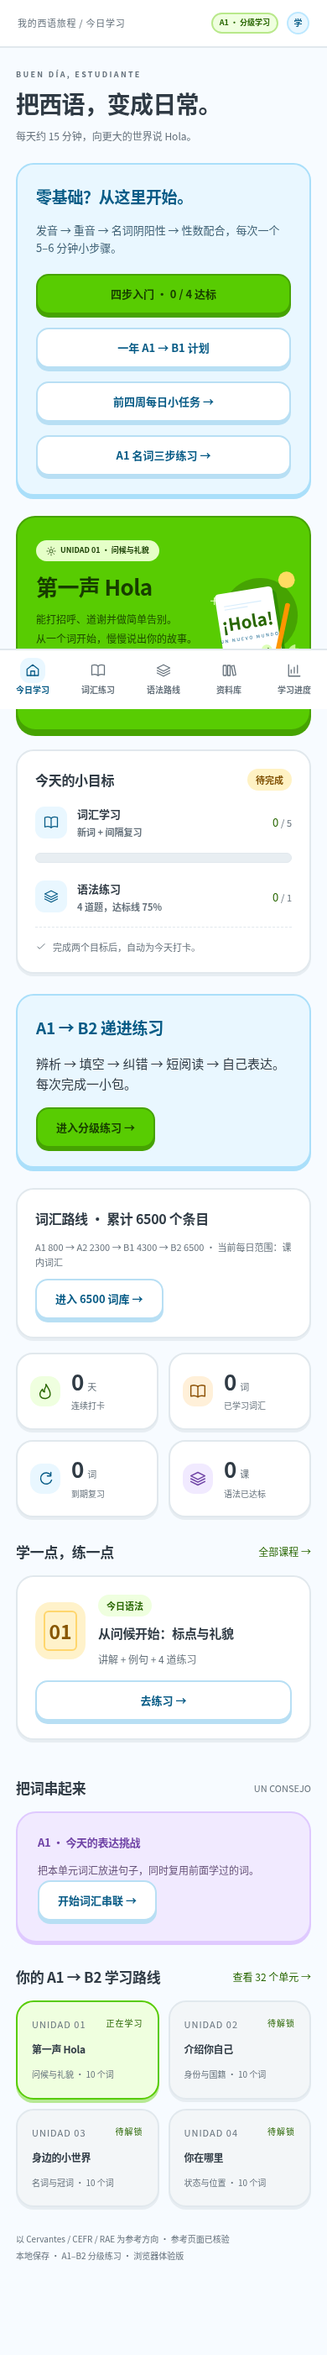
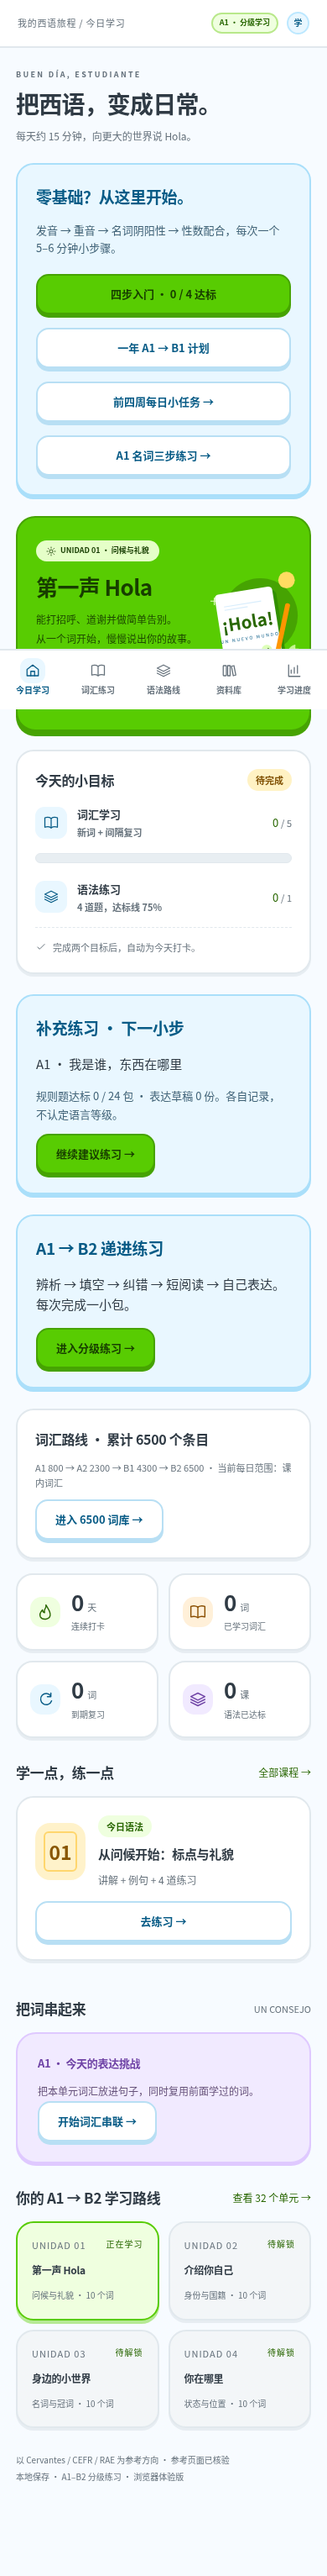
Show practice progress by level and suggest the next learning step

diff --git a/web/app.js b/web/app.js
@@ -77,7 +77,16 @@
     const date = new Date().toLocaleDateString('zh-CN', { month: 'long', day: 'numeric', weekday: 'long' });
     return heading('BUEN DÍA, ESTUDIANTE', '把西语，变成日常。', '每天约 15 分钟，向更大的世界说 Hola。', `<div class="date-chip">${icon('calendar')}${esc(date)}</div>`) +
       `<section class="card beginner-start"><h2>${foundationPassed<4?'零基础？从这里开始。':'把基础练熟，再走远一点。'}</h2><p class="tiny">发音 → 重音 → 名词阴阳性 → 性数配合，每次一个 5–6 分钟小步骤。</p><div class="actions">${btn(`四步入门 · ${foundationPassed} / 4 达标`,'foundations')}${btn('一年 A1 → B1 计划','year','','secondary')}${btn('前四周每日小任务 →','month','','secondary')}${btn('A1 名词三步练习 →','nouns','','secondary')}</div></section><div class="dashboard-grid"><section class="hero"><div class="hero-grid"><div><div class="hero-tag">${icon('sun').replace('viewBox=', 'width="12" height="12" viewBox=')} UNIDAD ${s.unit.number} · ${esc(s.unit.topic)}</div><h2>${esc(s.unit.title)}</h2><p>${esc(s.unit.goal)}<br>从一个词开始，慢慢说出你的故事。</p>${btn(`${s.checkedIn ? '再巩固一轮' : '开始今日学习'} ${icon('arrow')}`, 'study', '', 'lime')}</div>${art()}</div></section><section class="card task-list"><div class="task-header"><h2>今天的小目标</h2>${pill(s.checkedIn ? '已打卡 ✓' : '待完成', !s.checkedIn)}</div><div class="task"><div class="task-icon">${icon('book')}</div><div class="task-label">词汇学习<div class="task-meta">新词 + 间隔复习</div></div><div class="task-count">${s.day.words.length} <span class="tiny">/ ${s.day.goal}</span></div></div>${meter(s.wordPercent)}<div class="task"><div class="task-icon">${icon('layers')}</div><div class="task-label">语法练习<div class="task-meta">4 道题，达标线 75%</div></div><div class="task-count">${s.day.grammar.length ? '✓' : '0'} <span class="tiny">/ 1</span></div></div><div class="checkin-note">${icon('check')}<span>${s.checkedIn ? '今日目标完成啦，学习记录已保存。' : '完成两个目标后，自动为今天打卡。'}</span></div></section></div>` +
-      `<div class="card beginner-start"><h2>A1 → B2 递进练习</h2><p>辨析 → 填空 → 纠错 → 短阅读 → 自己表达。每次完成一小包。</p>${btn('进入分级练习 →','drills')}</div><div class="card"><h2>词汇路线 · 累计 6500 个条目</h2><p class="tiny">A1 800 → A2 2300 → B1 4300 → B2 6500 · 当前每日范围：${state.track==='bank'?'扩展词库':'课内词汇'}</p>${btn('进入 6500 词库 →','bank','','secondary')}</div><section class="stats" aria-label="学习统计">${stat(s.streak,'连续打卡','flame','天')}${stat(s.learned,'已学习词汇','book','词')}${stat(s.due,'到期复习','refresh','词')}${stat(s.grammarPassed,'语法已达标','layers','课')}</section><div class="two-column"><section><div class="section-head"><h2>学一点，练一点</h2><a class="text-link" href="#grammar">全部课程 →</a></div><div class="card lesson-teaser"><div class="lesson-cover">${s.unit.number}</div><div>${pill('今日语法')}<h3>${esc(lesson.title)}</h3><p>讲解 + 例句 + 4 道练习</p></div>${btn('去练习 →','lesson',`data-id="${lesson.id}"`,'secondary')}</div></section><section><div class="section-head"><h2>把词串起来</h2><span class="tiny">UN CONSEJO</span></div><div class="tip"><h3>${esc(s.unit.levelCode)} · 今天的表达挑战</h3><p>把本单元词汇放进句子，同时复用前面学过的词。</p>${btn('开始词汇串联 →','expression',`data-id="${C.tasks.find(t=>t.unitId===s.unit.id).id}"`,'secondary')}</div></section></div><div class="section-head"><h2>你的 A1 → B2 学习路线</h2><a class="text-link" href="#grammar">查看 32 个单元 →</a></div><div class="roadmap">${C.units.filter(u=>u.levelCode===s.unit.levelCode).slice(0,4).map(u => { const unlocked = L.isUnlocked(state,u.id); const p = L.unitProgress(state,u.id); const current = s.unit.id === u.id; return `<div class="card unit-mini ${current ? 'current' : ''} ${unlocked ? '' : 'locked'}"><div class="unit-number">UNIDAD ${u.number}<span class="unit-state">${p.complete ? '✓ 完成' : current ? '正在学习' : unlocked ? '可学习' : '待解锁'}</span></div><h3>${esc(u.title)}</h3><span class="tiny">${esc(u.topic)} · 10 个词</span><button aria-label="学习${esc(u.title)}" data-action="lesson" data-id="${C.lessons.find(l=>l.unitId===u.id).id}"></button></div>`; }).join('')}</div>`;
+      `${practiceAdvice()}<div class="card beginner-start"><h2>A1 → B2 递进练习</h2><p>辨析 → 填空 → 纠错 → 短阅读 → 自己表达。每次完成一小包。</p>${btn('进入分级练习 →','drills')}</div><div class="card"><h2>词汇路线 · 累计 6500 个条目</h2><p class="tiny">A1 800 → A2 2300 → B1 4300 → B2 6500 · 当前每日范围：${state.track==='bank'?'扩展词库':'课内词汇'}</p>${btn('进入 6500 词库 →','bank','','secondary')}</div><section class="stats" aria-label="学习统计">${stat(s.streak,'连续打卡','flame','天')}${stat(s.learned,'已学习词汇','book','词')}${stat(s.due,'到期复习','refresh','词')}${stat(s.grammarPassed,'语法已达标','layers','课')}</section><div class="two-column"><section><div class="section-head"><h2>学一点，练一点</h2><a class="text-link" href="#grammar">全部课程 →</a></div><div class="card lesson-teaser"><div class="lesson-cover">${s.unit.number}</div><div>${pill('今日语法')}<h3>${esc(lesson.title)}</h3><p>讲解 + 例句 + 4 道练习</p></div>${btn('去练习 →','lesson',`data-id="${lesson.id}"`,'secondary')}</div></section><section><div class="section-head"><h2>把词串起来</h2><span class="tiny">UN CONSEJO</span></div><div class="tip"><h3>${esc(s.unit.levelCode)} · 今天的表达挑战</h3><p>把本单元词汇放进句子，同时复用前面学过的词。</p>${btn('开始词汇串联 →','expression',`data-id="${C.tasks.find(t=>t.unitId===s.unit.id).id}"`,'secondary')}</div></section></div><div class="section-head"><h2>你的 A1 → B2 学习路线</h2><a class="text-link" href="#grammar">查看 32 个单元 →</a></div><div class="roadmap">${C.units.filter(u=>u.levelCode===s.unit.levelCode).slice(0,4).map(u => { const unlocked = L.isUnlocked(state,u.id); const p = L.unitProgress(state,u.id); const current = s.unit.id === u.id; return `<div class="card unit-mini ${current ? 'current' : ''} ${unlocked ? '' : 'locked'}"><div class="unit-number">UNIDAD ${u.number}<span class="unit-state">${p.complete ? '✓ 完成' : current ? '正在学习' : unlocked ? '可学习' : '待解锁'}</span></div><h3>${esc(u.title)}</h3><span class="tiny">${esc(u.topic)} · 10 个词</span><button aria-label="学习${esc(u.title)}" data-action="lesson" data-id="${C.lessons.find(l=>l.unitId===u.id).id}"></button></div>`; }).join('')}</div>`;
+  }
+  function practiceAdvice() {
+    const p=L.practiceSummary(state);
+    const title=p.wrong?`先订正 ${p.wrong} 个错项`:p.next?`${p.next.level} · ${p.next.title}`:'回顾已经练过的内容';
+    return `<section class="card beginner-start practice-advice"><h2>补充练习 · 下一小步</h2><p>${esc(title)}</p><p class="tiny">规则题达标 ${p.passed} / ${p.total} 包 · 表达草稿 ${p.drafts} 份。各自记录，不认定语言等级。</p>${btn(p.wrong?'去集中订正 →':p.next?'继续建议练习 →':'回顾练习 →','practice-continue')}</section>`;
+  }
+  function practiceProgressPanel() {
+    const p=L.practiceSummary(state);
+    return `<section class="practice-progress"><div class="section-head"><h2>补充练习的进度</h2></div><div class="card"><p>规则题达标 ${p.passed} / ${p.total} 包 · 待订正 ${p.wrong} 项 · 已保存表达 ${p.drafts} 份</p><p class="tiny">表达自查已勾选完整 ${p.selfChecked} 份；前四周三个小任务已勾选 ${p.monthCompleted} / 28 天。手工自查与任务不算能力评分或打卡。</p><div class="actions">${btn('集中订正','drill-review','','secondary')}${btn('查看每日小任务','month','','secondary')}</div></div><div class="lesson-grid">${p.levels.map(l=>`<article class="card practice-level-card" data-level="${l.level}"><h3>${l.level}</h3><p>规则题达标 ${l.passed} / ${l.total} 包</p>${meter(percent(l.passed,l.total))}<p class="tiny">已练 ${l.practiced} 包 · 已开放 ${l.available} 包 · 待订正 ${l.wrong} 项</p><p class="tiny">已保存表达 ${l.drafts} 份 · 自查勾选完整 ${l.selfChecked} 份</p>${btn('查看本级练习','practice-level',`data-level="${l.level}"`,'small secondary')}</article>`).join('')}</div><p class="tiny">主课程、补充练习和手工任务分别统计；规则正确率不能证明完整听说读写能力。</p></section>`;
   }
   function firstMonthPage() {
     const s=L.firstMonthSummary(state,L.dateKey(),monthDay);monthDay=s.selectedDay;
@@ -203,7 +212,7 @@
   function progressPage() {
     const s=L.summary(state); const errors=L.mistakes(state); const wrong=L.wrongWords(state);
     const calendar=Array.from({length:14},(_,i)=> { const key=L.addDays(s.today,i-13); return `<div class="calendar-day ${L.isCheckedIn(state.days[key])?'done':''} ${key===s.today?'today':''}" aria-label="${key} ${L.isCheckedIn(state.days[key])?'已打卡':'未打卡'}">${key.slice(5)}</div>`; }).join('');
-    return heading('MI CAMINO','每一步，都算数。','真正的进步，是今天比昨天多懂一点。') + `${storageFailed?`<div class="notice">原记录暂未读取，旧数据不会被覆盖。可重读或导入兼容备份。${btn('重新读取记录','reload-records','','secondary')}</div>`:''}<div class="stats">${stat(s.streak,'连续打卡','flame','天')}${stat(s.checkins,'累计打卡','calendar','天')}${stat(s.learned,'已学习词汇','book',`/ ${C.lexicon.catalogue.length}`)}${stat(s.grammarPassed,'语法已达标','layers',`/ ${C.lessons.length}`)}</div><div class="progress-columns"><section><div class="card"><div class="card-head"><h2>最近 14 天</h2>${pill('学习日历')}</div><div class="calendar">${calendar}</div><p class="tiny">深绿色：当日完成词汇目标 + 至少一次达标语法练习。按设备本地日期记录。</p></div><div class="card"><div class="card-head"><h2>词汇积累</h2><span>${s.learned} / ${C.lexicon.catalogue.length}</span></div>${meter(percent(s.learned,C.lexicon.catalogue.length))}<p class="tiny">有复习记录即“已学习”，不等于长期掌握。到期词会优先安排复习。</p></div></section><section><div class="card"><h2>每天，给自己一点时间</h2><p class="tiny">设置每天词汇量，再加 1 次达标语法练习。</p><div class="goal-options">${[3,5,10].map(g=>btn(`${g} 个词`,'goal',`data-goal="${g}"`,state.goal===g?'':'secondary')).join('')}</div><p class="tiny">当天首次学习时固定目标。今天开始学习后，调整目标对下一天生效。</p></div><div class="card"><h2>留住你的学习记录</h2><p class="tiny">数据只存在当前浏览器中，不与微信自动同步。清理浏览器或换设备前，请导出备份。</p><div class="backup-actions">${btn('导出备份','export','','small secondary')}${btn('导入备份','import','','small ghost')}</div></div></section></div><div class="section-head"><h2>词汇错词本</h2><span class="tiny">${wrong.length} 个待订正</span></div><div class="card">${wrong.length?wrong.map(w=>`<p><strong lang="es">${esc(w.spanish)}</strong> · ${esc(w.meaning)}<br><span class="tiny">你的答案：${esc(w.answer)}</span></p>`).join('')+btn('集中重练错词 →','word-quiz','data-wrong="1"','secondary'):'<p class="tiny">词汇测验中答错的词会保存在这里。</p>'}</div><div class="section-head"><h2>错题回顾</h2><span class="tiny">${errors.length} 题待订正</span></div>${errors.length ? errors.map(q=>`<article class="card mistake"><h3>${esc(q.prompt)}</h3><p>你的答案：${esc(q.options[q.selected])}</p><p>正确答案：${esc(q.options[q.answer])}</p><p>${esc(q.explanation)}</p>${btn('重练本课 →','lesson',`data-id="${q.lessonId}"`,'small secondary')}</article>`).join('') : '<div class="card empty">暂无待订正错题。练习中的错题会自动出现在这里。</div>'}`;
+    return heading('MI CAMINO','每一步，都算数。','真正的进步，是今天比昨天多懂一点。') + `${storageFailed?`<div class="notice">原记录暂未读取，旧数据不会被覆盖。可重读或导入兼容备份。${btn('重新读取记录','reload-records','','secondary')}</div>`:''}<div class="stats">${stat(s.streak,'连续打卡','flame','天')}${stat(s.checkins,'累计打卡','calendar','天')}${stat(s.learned,'已学习词汇','book',`/ ${C.lexicon.catalogue.length}`)}${stat(s.grammarPassed,'语法已达标','layers',`/ ${C.lessons.length}`)}</div>${practiceProgressPanel()}<div class="progress-columns"><section><div class="card"><div class="card-head"><h2>最近 14 天</h2>${pill('学习日历')}</div><div class="calendar">${calendar}</div><p class="tiny">深绿色：当日完成词汇目标 + 至少一次达标语法练习。按设备本地日期记录。</p></div><div class="card"><div class="card-head"><h2>词汇积累</h2><span>${s.learned} / ${C.lexicon.catalogue.length}</span></div>${meter(percent(s.learned,C.lexicon.catalogue.length))}<p class="tiny">有复习记录即“已学习”，不等于长期掌握。到期词会优先安排复习。</p></div></section><section><div class="card"><h2>每天，给自己一点时间</h2><p class="tiny">设置每天词汇量，再加 1 次达标语法练习。</p><div class="goal-options">${[3,5,10].map(g=>btn(`${g} 个词`,'goal',`data-goal="${g}"`,state.goal===g?'':'secondary')).join('')}</div><p class="tiny">当天首次学习时固定目标。今天开始学习后，调整目标对下一天生效。</p></div><div class="card"><h2>留住你的学习记录</h2><p class="tiny">数据只存在当前浏览器中，不与微信自动同步。清理浏览器或换设备前，请导出备份。</p><div class="backup-actions">${btn('导出备份','export','','small secondary')}${btn('导入备份','import','','small ghost')}</div></div></section></div><div class="section-head"><h2>词汇错词本</h2><span class="tiny">${wrong.length} 个待订正</span></div><div class="card">${wrong.length?wrong.map(w=>`<p><strong lang="es">${esc(w.spanish)}</strong> · ${esc(w.meaning)}<br><span class="tiny">你的答案：${esc(w.answer)}</span></p>`).join('')+btn('集中重练错词 →','word-quiz','data-wrong="1"','secondary'):'<p class="tiny">词汇测验中答错的词会保存在这里。</p>'}</div><div class="section-head"><h2>错题回顾</h2><span class="tiny">${errors.length} 题待订正</span></div>${errors.length ? errors.map(q=>`<article class="card mistake"><h3>${esc(q.prompt)}</h3><p>你的答案：${esc(q.options[q.selected])}</p><p>正确答案：${esc(q.options[q.answer])}</p><p>${esc(q.explanation)}</p>${btn('重练本课 →','lesson',`data-id="${q.lessonId}"`,'small secondary')}</article>`).join('') : '<div class="card empty">暂无待订正错题。练习中的错题会自动出现在这里。</div>'}`;
   }
   function startSession(packId = '') { session={packId,items:packId?L.packQueue(state,packId):L.queue(state),index:0,revealed:false,retries:new Set(),day:L.dateKey()}; }
   function openWordQuiz(wrongOnly = false, packId = '') {
@@ -305,6 +314,8 @@
     const element=event.target.closest('[data-action]'); if(!element||element.disabled)return;
     const action=element.dataset.action;
     if(action==='study'){startSession(element.dataset.pack||'');navigate('study');}
+    else if(action==='practice-continue'){const p=L.practiceSummary(state);if(p.wrong){drillReview={phase:'setup',level:''};navigate('drill-review');}else{drillQuiz=null;drillEditor=null;navigate(p.next?`drill/${p.next.id}`:'drills');}}
+    else if(action==='practice-level'){drillLevel=element.dataset.level;drillQuiz=null;drillEditor=null;navigate('drills');}
     else if(action==='month'){monthDay=0;navigate('first-month');}
     else if(action==='month-start'){if(commit(s=>L.startJourney(s,L.dateKey())))render();}
     else if(action==='month-current'){monthDay=0;render();}

diff --git a/tests/e2e/practice-progress.spec.js b/tests/e2e/practice-progress.spec.js
@@ -1,0 +1,11 @@
+const {test,expect}=require('@playwright/test');const L=require('../../miniprogram/lib/learning');
+test('首页推荐按实际练习推进，进度页分开显示规则、错项和表达',async({page})=>{
+  await page.goto('/');await expect(page.locator('.practice-advice')).toContainText('我是谁');await page.getByRole('button',{name:'继续建议练习'}).click();await page.getByRole('button',{name:'开始四步练习'}).click();
+  const p=L.drillPacks[0];for(const [i,q] of p.questions.entries()){if(q.kind==='choice')await page.locator('[data-action="drill-answer"]').filter({hasText:q.answers[0]}).click();else{await page.fill('#drill-answer',i===1?'wrong':q.answers[0]);await page.getByRole('button',{name:'检查答案',exact:true}).click();}await page.getByRole('button',{name:i===3?'保存并查看结果':'下一步'}).click();}
+  await page.goto('/#today');await expect(page.locator('.practice-advice')).toContainText('先订正 1 个错项');await page.getByRole('button',{name:'去集中订正'}).click();await page.getByRole('button',{name:'开始集中订正'}).click();await page.fill('#review-answer','está');await page.getByRole('button',{name:'检查订正'}).click();await page.goto('/#today');await expect(page.locator('.practice-advice')).toContainText('把每天的动作说出来');
+  await page.goto('/#progress');await expect(page.locator('.practice-level-card[data-level="A1"]')).toContainText('规则题达标 1 / 6');await expect(page.locator('.practice-level-card[data-level="A2"]')).toContainText('规则题达标 0 / 6');await expect(page.locator('.stat-value').nth(2)).toContainText('0');
+  await page.locator('.practice-level-card[data-level="B2"]').getByRole('button',{name:'查看本级练习'}).click();await expect(page.locator('[data-action="drills-level"][data-level="B2"]')).toHaveAttribute('aria-pressed','true');await expect(page.locator('.drill-card')).toHaveCount(6);
+});
+test('练习进度默认无虚构完成数，320px 看板无横向溢出',async({page})=>{
+  await page.setViewportSize({width:320,height:840});await page.goto('/#progress');await expect(page.locator('.practice-progress')).toContainText('规则题达标 0 / 24');await expect(page.locator('.practice-progress')).toContainText('已保存表达 0 份');expect(await page.evaluate(()=>document.documentElement.scrollWidth<=innerWidth)).toBe(true);
+});

diff --git a/scripts/capture-preview.js b/scripts/capture-preview.js
@@ -9,7 +9,7 @@ const L = require('../miniprogram/lib/learning');
   const output = path.resolve(__dirname, '../docs/screenshots');
   fs.mkdirSync(output, { recursive: true });
   const requested = new Set(process.argv.slice(2));
-  for (const [name, width, height] of [['today-desktop',1440,1000],['today-mobile',390,844],['grammar-b2-mobile',390,844],['expression-mobile',390,844],['bank-desktop',1440,1000],['bank-mobile',390,844],['foundations-mobile',390,844],['year-mobile',390,844],['nouns-desktop',1440,1000],['nouns-mobile',390,844],['noun-quiz-mobile',390,844],['drills-desktop',1440,1000],['drills-mobile',390,844],['drills-b2-mobile',390,844],['drill-reading-mobile',390,844],['drill-review-mobile',390,844],['drill-draft-mobile',390,844],['month-mobile',390,844],['month-desktop',1440,1000]]) {
+  for (const [name, width, height] of [['today-desktop',1440,1000],['today-mobile',390,844],['grammar-b2-mobile',390,844],['expression-mobile',390,844],['bank-desktop',1440,1000],['bank-mobile',390,844],['foundations-mobile',390,844],['year-mobile',390,844],['nouns-desktop',1440,1000],['nouns-mobile',390,844],['noun-quiz-mobile',390,844],['drills-desktop',1440,1000],['drills-mobile',390,844],['drills-b2-mobile',390,844],['drill-reading-mobile',390,844],['drill-review-mobile',390,844],['drill-draft-mobile',390,844],['month-mobile',390,844],['month-desktop',1440,1000],['progress-mobile',390,844],['progress-desktop',1440,1000]]) {
     if (requested.size && !requested.has(name)) continue;
     const page = await browser.newPage({ viewport: { width, height }, deviceScaleFactor: 1, timezoneId: 'Asia/Shanghai' });
     await page.goto('http://127.0.0.1:4173', { waitUntil: 'networkidle' });
@@ -18,6 +18,7 @@ const L = require('../miniprogram/lib/learning');
     if(name==='foundations-mobile')await page.goto('http://127.0.0.1:4173/#foundations');
     if(name==='year-mobile')await page.goto('http://127.0.0.1:4173/#year');
     if(name.startsWith('month-'))await page.goto('http://127.0.0.1:4173/#first-month');
+    if(name.startsWith('progress-'))await page.goto('http://127.0.0.1:4173/#progress');
     if(name.startsWith('nouns-'))await page.goto('http://127.0.0.1:4173/#nouns');
     if(name.startsWith('drills-')){
       await page.goto('http://127.0.0.1:4173/#drills');

diff --git a/tests/drill-progress.test.js b/tests/drill-progress.test.js
@@ -1,0 +1,14 @@
+const {test}=require('node:test');const assert=require('node:assert/strict');const L=require('../miniprogram/lib/learning');
+test('补充练习进度从零开始，每级六包，下一步来自真实前置关系',()=>{
+  const s=L.emptyState(),p=L.practiceSummary(s);assert.equal(p.total,24);assert.equal(p.passed,0);assert.equal(p.drafts,0);assert.equal(p.next.id,'a1-place');assert.ok(p.levels.every(l=>l.total===6));
+  assert.equal(p.levels[0].available,1);assert.equal(p.levels[1].available,0);
+});
+test('规则题、错项、表达自查和每日任务分别统计，不写回学习记录',()=>{
+  const s=L.emptyState(),pack=L.drillPacks[0],a=pack.questions.map(q=>q.answers[0]);a[1]='bad';L.gradeDrill(s,pack.id,a);L.saveDrillDraft(s,pack.id,'Soy estudiante.');L.setDrillChecks(s,pack.id,[0,1,2]);L.startJourney(s,'2026-10-01');for(const id of ['recall','focus','output'])L.setMonthTask(s,1,id,true,'2026-10-01');
+  const before=structuredClone(s),p=L.practiceSummary(s);assert.equal(p.passed,1);assert.equal(p.wrong,1);assert.equal(p.drafts,1);assert.equal(p.selfChecked,1);assert.equal(p.monthCompleted,1);assert.equal(p.next.id,'a1-routine');assert.equal(p.levels[0].available,3);assert.deepEqual(s,before);assert.deepEqual(s.days,{});assert.equal(L.summary(s).learned,0);
+});
+test('旧核心备份显示三包达标，新增分支不丢旧进度，全部完成后建议回顾',()=>{
+  const s=L.emptyState();for(const p of L.drillPacks.filter(p=>p.branch==='core'))L.gradeDrill(s,p.id,p.questions.map(q=>q.answers[0]));
+  let report=L.practiceSummary(L.restore(JSON.parse(JSON.stringify(s))));assert.ok(report.levels.every(l=>l.passed===3));assert.equal(report.next.id,'a1-greetings');
+  for(const p of L.drillPacks.filter(p=>p.branch==='extension'))L.gradeDrill(s,p.id,p.questions.map(q=>q.answers[0]));report=L.practiceSummary(s);assert.equal(report.passed,24);assert.equal(report.next,null);
+});

diff --git a/miniprogram/pages/progress/index.js b/miniprogram/pages/progress/index.js
@@ -2,8 +2,11 @@ const L = require('../../lib/learning');
 const S = require('../../lib/storage');
 Page({
   onShow() { this.refresh(); },
-  refresh() { const state = S.load(); const today = L.dateKey(); this.setData({ ...L.summary(state), readFailed: !S.isReadable(), goal: state.goal, mistakes: L.mistakes(state), wrongWords: L.wrongWords(state), calendar: Array.from({ length: 14 }, (_, i) => { const key = L.addDays(today, i - 13); return { key, label: key.slice(5), done: L.isCheckedIn(state.days[key]), today: key === today }; }) }); },
+  refresh() { const state = S.load(); const today = L.dateKey(); this.setData({ ...L.summary(state), practice:L.practiceSummary(state), readFailed: !S.isReadable(), goal: state.goal, mistakes: L.mistakes(state), wrongWords: L.wrongWords(state), calendar: Array.from({ length: 14 }, (_, i) => { const key = L.addDays(today, i - 13); return { key, label: key.slice(5), done: L.isCheckedIn(state.days[key]), today: key === today }; }) }); },
   wordRetry() { wx.navigateTo({ url: '/pages/wordquiz/index?wrong=1' }); },
+  drills(e) { wx.navigateTo({ url: `/pages/drills/index?level=${e.currentTarget.dataset.level}` }); },
+  drillReview() { wx.navigateTo({ url: '/pages/drillreview/index' }); },
+  month() { wx.navigateTo({ url: '/pages/firstmonth/index' }); },
   goal(e) { if (S.commit(state => L.setGoal(state, Number(e.currentTarget.dataset.goal)))) { this.refresh(); wx.showToast({ title: '已保存；今日已开始的目标不变', icon: 'none' }); } },
   retry(e) { wx.navigateTo({ url: `/pages/lesson/index?id=${e.currentTarget.dataset.id}` }); },
   exportData() { let state; try { state = S.read(); } catch (error) { return wx.showToast({ title: '记录未读取，暂不导出空备份', icon: 'none' }); } wx.setClipboardData({ data: JSON.stringify(state), success() { wx.showToast({ title: '已复制学习记录，请自行保管', icon: 'none' }); } }); },

diff --git a/scripts/build-web.js b/scripts/build-web.js
@@ -5,7 +5,7 @@ function build() {
   const output = path.join(root, 'dist');
   fs.mkdirSync(output, { recursive: true });
   for (const name of ['index.html', 'styles.css', 'app.js']) fs.copyFileSync(path.join(root, 'web', name), path.join(output, name));
-  const modules = ['data/sources', 'data/vocabulary-review', 'data/course-extension', 'data/expression-tasks', 'data/lexicon/entries', 'data/lexicon/index', 'data/lexicon/tasks', 'data/course', 'data/foundations', 'data/year-plan', 'data/noun-practice', 'data/drill-extension', 'data/drills', 'data/first-month', 'lib/journey', 'lib/nouns', 'lib/drills', 'lib/drill-review', 'lib/first-month', 'lib/learning'];
+  const modules = ['data/sources', 'data/vocabulary-review', 'data/course-extension', 'data/expression-tasks', 'data/lexicon/entries', 'data/lexicon/index', 'data/lexicon/tasks', 'data/course', 'data/foundations', 'data/year-plan', 'data/noun-practice', 'data/drill-extension', 'data/drills', 'data/first-month', 'lib/journey', 'lib/nouns', 'lib/drills', 'lib/drill-review', 'lib/first-month', 'lib/drill-progress', 'lib/learning'];
   const definitions = modules.map(id => `${JSON.stringify(id)}: function(module, exports, require) {\n${fs.readFileSync(path.join(root, 'miniprogram', `${id}.js`), 'utf8')}\n}`).join(',\n');
   const bundle = `(function(){'use strict'; const modules={${definitions}}; const cache={}; function load(id){ if(cache[id])return cache[id].exports; const module=cache[id]={exports:{}}; modules[id](module,module.exports,function(relative){const parts=id.split('/');parts.pop();for(const p of relative.split('/')){if(p==='..')parts.pop();else if(p!=='.')parts.push(p);}return load(parts.join('/'));});return module.exports;} window.HolaLearning=load('lib/learning');})();\n`;
   fs.writeFileSync(path.join(output, 'learning.bundle.js'), bundle);

diff --git a/miniprogram/lib/drill-progress.js b/miniprogram/lib/drill-progress.js
@@ -1,0 +1,17 @@
+const D = require('./drills');
+const monthDays = require('../data/first-month');
+function practiceSummary(state) {
+  const progress = D.drillProgress(state);
+  const levels = ['A1','A2','B1','B2'].map(level => {
+    const packs = progress.filter(p => p.level === level);
+    const drafts = packs.filter(p => state.drillDrafts[p.id] && state.drillDrafts[p.id].text.trim());
+    return { level, total: packs.length, passed: packs.filter(p => p.bestScore >= 75).length,
+      practiced: packs.filter(p => p.bestScore !== null).length, available: packs.filter(p => p.unlocked).length,
+      wrong: packs.filter(p => p.unlocked).reduce((n,p) => n+p.mistakes.length,0),
+      drafts: drafts.length, selfChecked: drafts.filter(p => (state.drillDrafts[p.id].checks || []).length === p.output.rubric.length).length };
+  });
+  const sum = key => levels.reduce((n,l) => n+l[key],0);
+  const monthCompleted = monthDays.filter(d => { const r=(state.monthChecks || {})[d.day]; return r && Array.isArray(r.tasks) && d.tasks.every(t => r.tasks.includes(t.id)); }).length;
+  return { levels, total: sum('total'), passed: sum('passed'), wrong: sum('wrong'), drafts: sum('drafts'), selfChecked: sum('selfChecked'), monthCompleted, next: D.nextDrillPack(state) };
+}
+module.exports = { practiceSummary };

diff --git a/miniprogram/pages/today/index.js b/miniprogram/pages/today/index.js
@@ -2,11 +2,12 @@ const L = require('../../lib/learning');
 const S = require('../../lib/storage');
 Page({
   data: {},
-  onShow() { const state = S.load(); const summary = L.summary(state); this.setData({ ...summary, foundationPassed:L.foundationProgress(state).filter(f=>f.passed).length, year:L.yearSummary(state,L.dateKey()), unitProgress: L.unitProgress(state, summary.unit.id) }); },
+  onShow() { const state = S.load(); const summary = L.summary(state); this.setData({ ...summary, practice:L.practiceSummary(state), foundationPassed:L.foundationProgress(state).filter(f=>f.passed).length, year:L.yearSummary(state,L.dateKey()), unitProgress: L.unitProgress(state, summary.unit.id) }); },
   foundations(){wx.navigateTo({url:'/pages/foundations/index'});},
   nouns(){wx.navigateTo({url:'/pages/nouns/index'});},
   drills(){wx.navigateTo({url:'/pages/drills/index'});},
   month(){wx.navigateTo({url:'/pages/firstmonth/index'});},
+  continuePractice(){const p=L.practiceSummary(S.load());wx.navigateTo({url:p.wrong?'/pages/drillreview/index':p.next?`/pages/drills/index?id=${p.next.id}`:'/pages/drills/index'});},
   year(){wx.navigateTo({url:'/pages/year/index'});},
   bank() {wx.navigateTo({url:'/pages/bank/index'});},
   study() { wx.navigateTo({ url: '/pages/session/index' }); },

diff --git a/miniprogram/pages/drills/index.js b/miniprogram/pages/drills/index.js
@@ -2,7 +2,7 @@ const L = require('../../lib/learning');
 const S = require('../../lib/storage');
 Page({
   data: { phase: 'menu', level: 'A1', input: '', feedback: null, text: '', dirty: false, saved: false, showModel: false },
-  onLoad(options = {}) { this.refresh(); if (options.id) this.open({ currentTarget: { dataset: { id: options.id } } }); },
+  onLoad(options = {}) { if (['A1','A2','B1','B2'].includes(options.level)) this.setData({ level: options.level }); this.refresh(); if (options.id) this.open({ currentTarget: { dataset: { id: options.id } } }); },
   onShow() { this.refresh(); },
   refresh() { const state = S.load(); this.setData({ packs: L.drillProgress(state).filter(p => p.level === this.data.level), wrongCount: L.drillWrongQuestions(state).length }); },
   review() { wx.navigateTo({ url: '/pages/drillreview/index' }); },

diff --git a/miniprogram/lib/learning.js b/miniprogram/lib/learning.js
@@ -4,6 +4,7 @@ const nouns = require('./nouns');
 const drills = require('./drills');
 const drillReview = require('./drill-review');
 const firstMonth = require('./first-month');
+const drillProgress = require('./drill-progress');
 const SCHEMA = 1;
 const PASS_SCORE = 75;
 const RATINGS = ['again', 'remember', 'easy'];
@@ -264,3 +265,4 @@ Object.assign(module.exports,nouns);
 Object.assign(module.exports,drills);
 Object.assign(module.exports,drillReview);
 Object.assign(module.exports,firstMonth);
+Object.assign(module.exports,drillProgress);

diff --git a/docs/VALIDATION.md b/docs/VALIDATION.md
@@ -103,3 +103,13 @@
 逻辑与原生模拟 **71 / 71 通过**，桌面 / 手机交互 **52 / 52 通过**。注入读取异常、坏 JSON 与未知版本，确认原记录逐字保留且没有写入 / 空备份导出；验证重读、另一窗口记录变化和明确导入后的恢复。原生恢复后再次复习允许增加合法复习次数，但原记录和词量不丢失。
 
 16 页面注册 / WXML、JS / JSON、构建与词库检查通过，源码 **1,317,818 字节**，低于 2 MiB。此为本地数据保护，仍没有云同步；清缓存或换设备前需要备份。微信官方编译、真机与内容教师审稿仍未完成。
+
+## 2026-10-13 各级进度与下一步建议
+
+新增只读的各级统计：规则题达标包、已练 / 已开放包、可订正错项、非空表达、自查勾选和前四周任务分别展示。默认空记录没有虚构完成数；旧 12 包备份在各级仍显示 3 个核心包达标，新增巩固分支保持独立。
+
+首页在存在错项时先推荐订正；订正后按真实前置选择下一包，全部完成后提供回顾。进度页可进入指定等级；未开放包仍只能预览。手工自查、每日任务不计能力分或打卡，汇总过程不写回学习记录。
+
+最终验证：逻辑与原生模拟 **75 / 75 通过**，桌面 / 手机交互 **56 / 56 通过**；包含全部 24 包真实作答、备份兼容、订正与修订、每日任务、读取失败保护、首页建议变化及 320px 进度布局。JS / JSON、16 页面注册 / WXML、构建和词库完整性检查通过，小程序源码 **1,321,665 字节**，低于 2 MiB；不是官方编译包大小。
+
+新增 [进度桌面截图](screenshots/progress-desktop.png) 和 [手机截图](screenshots/progress-mobile.png)，更新首页。截图来自空记录，所有完成统计为零。微信官方编译、真机、内容教师审稿、授权真人听力和完整四技能评价仍未完成。
